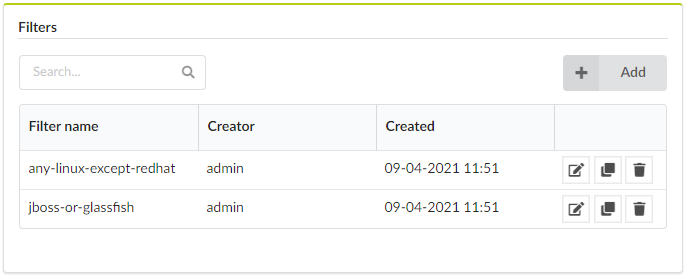
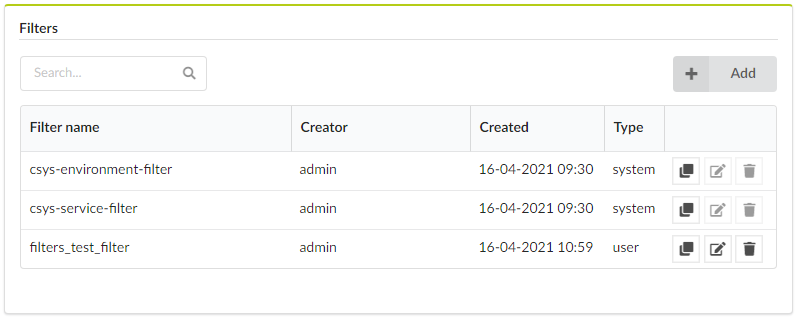
Updates for system filters support

diff --git a/content/working_with/console/widgets/filters.md b/content/working_with/console/widgets/filters.md
@@ -6,20 +6,21 @@ draft: false
 ---
 
 Displays the list of defined filters.
-The table has 4 columns:
+The table has 5 columns:
 
 * **Filter name** - filter ID
 * **Creator** - filter creator
 * **Created** - filter creation date and time
+* **Type** - filter type, either `user` or `system`
 * Actions column
 
 ![filters]( /images/ui/widgets/filters.png )
 
 The actions column contains the following action icons:
 
-* **Edit filter** opens the **filter rules edit** modal (see [defining filter rules]({{< relref "#defining-filter-rules" >}}) for details on rule definition)
 * **Clone filter** opens the **filter clone** modal allowing to create a modified copy of the selected filter (see [defining filter rules]({{< relref "#defining-filter-rules" >}}) for details on rule definition)
-* **Delete filter** removes the selected filter (see note below)
+* **Edit filter** available only to `user` filters, opens the **filter rules edit** modal (see [defining filter rules]({{< relref "#defining-filter-rules" >}}) for details on rule definition)
+* **Delete filter** available only to `user` filters, removes the selected filter (see note below)
 
 Filters used as a default filter in the Deployments View widget cannot be deleted.
 When trying to delete such a filter a modal shows up describing where (on which page and in which widget) and by whom (by which user) the filter is used.
